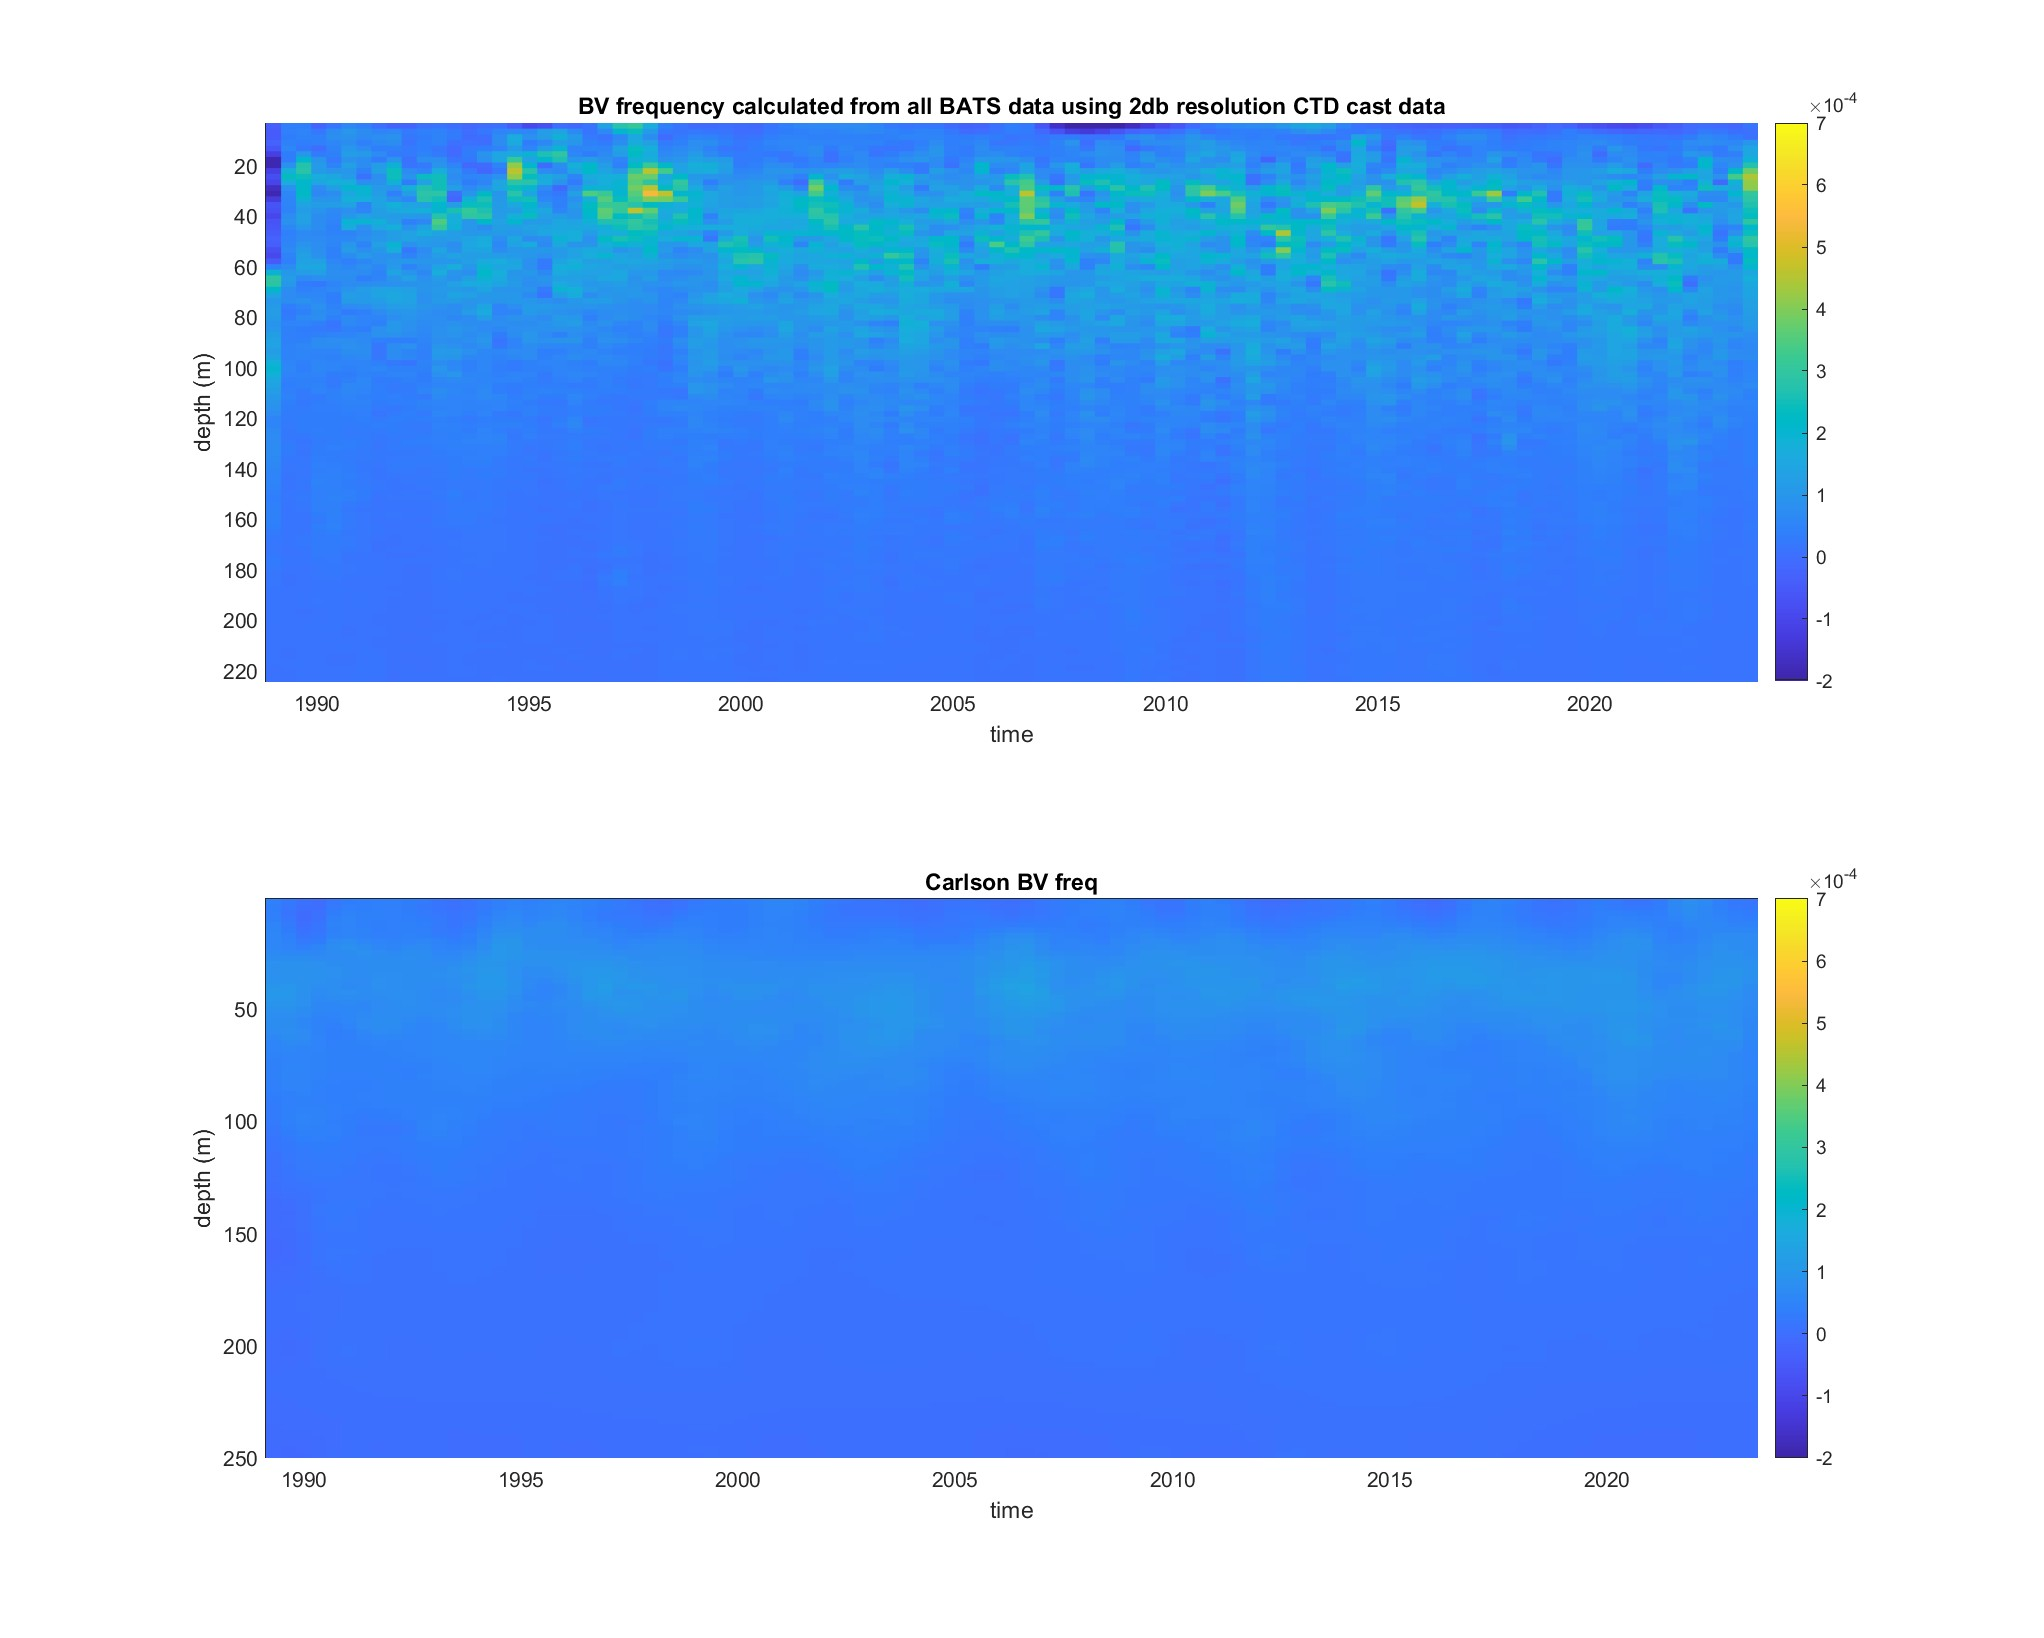
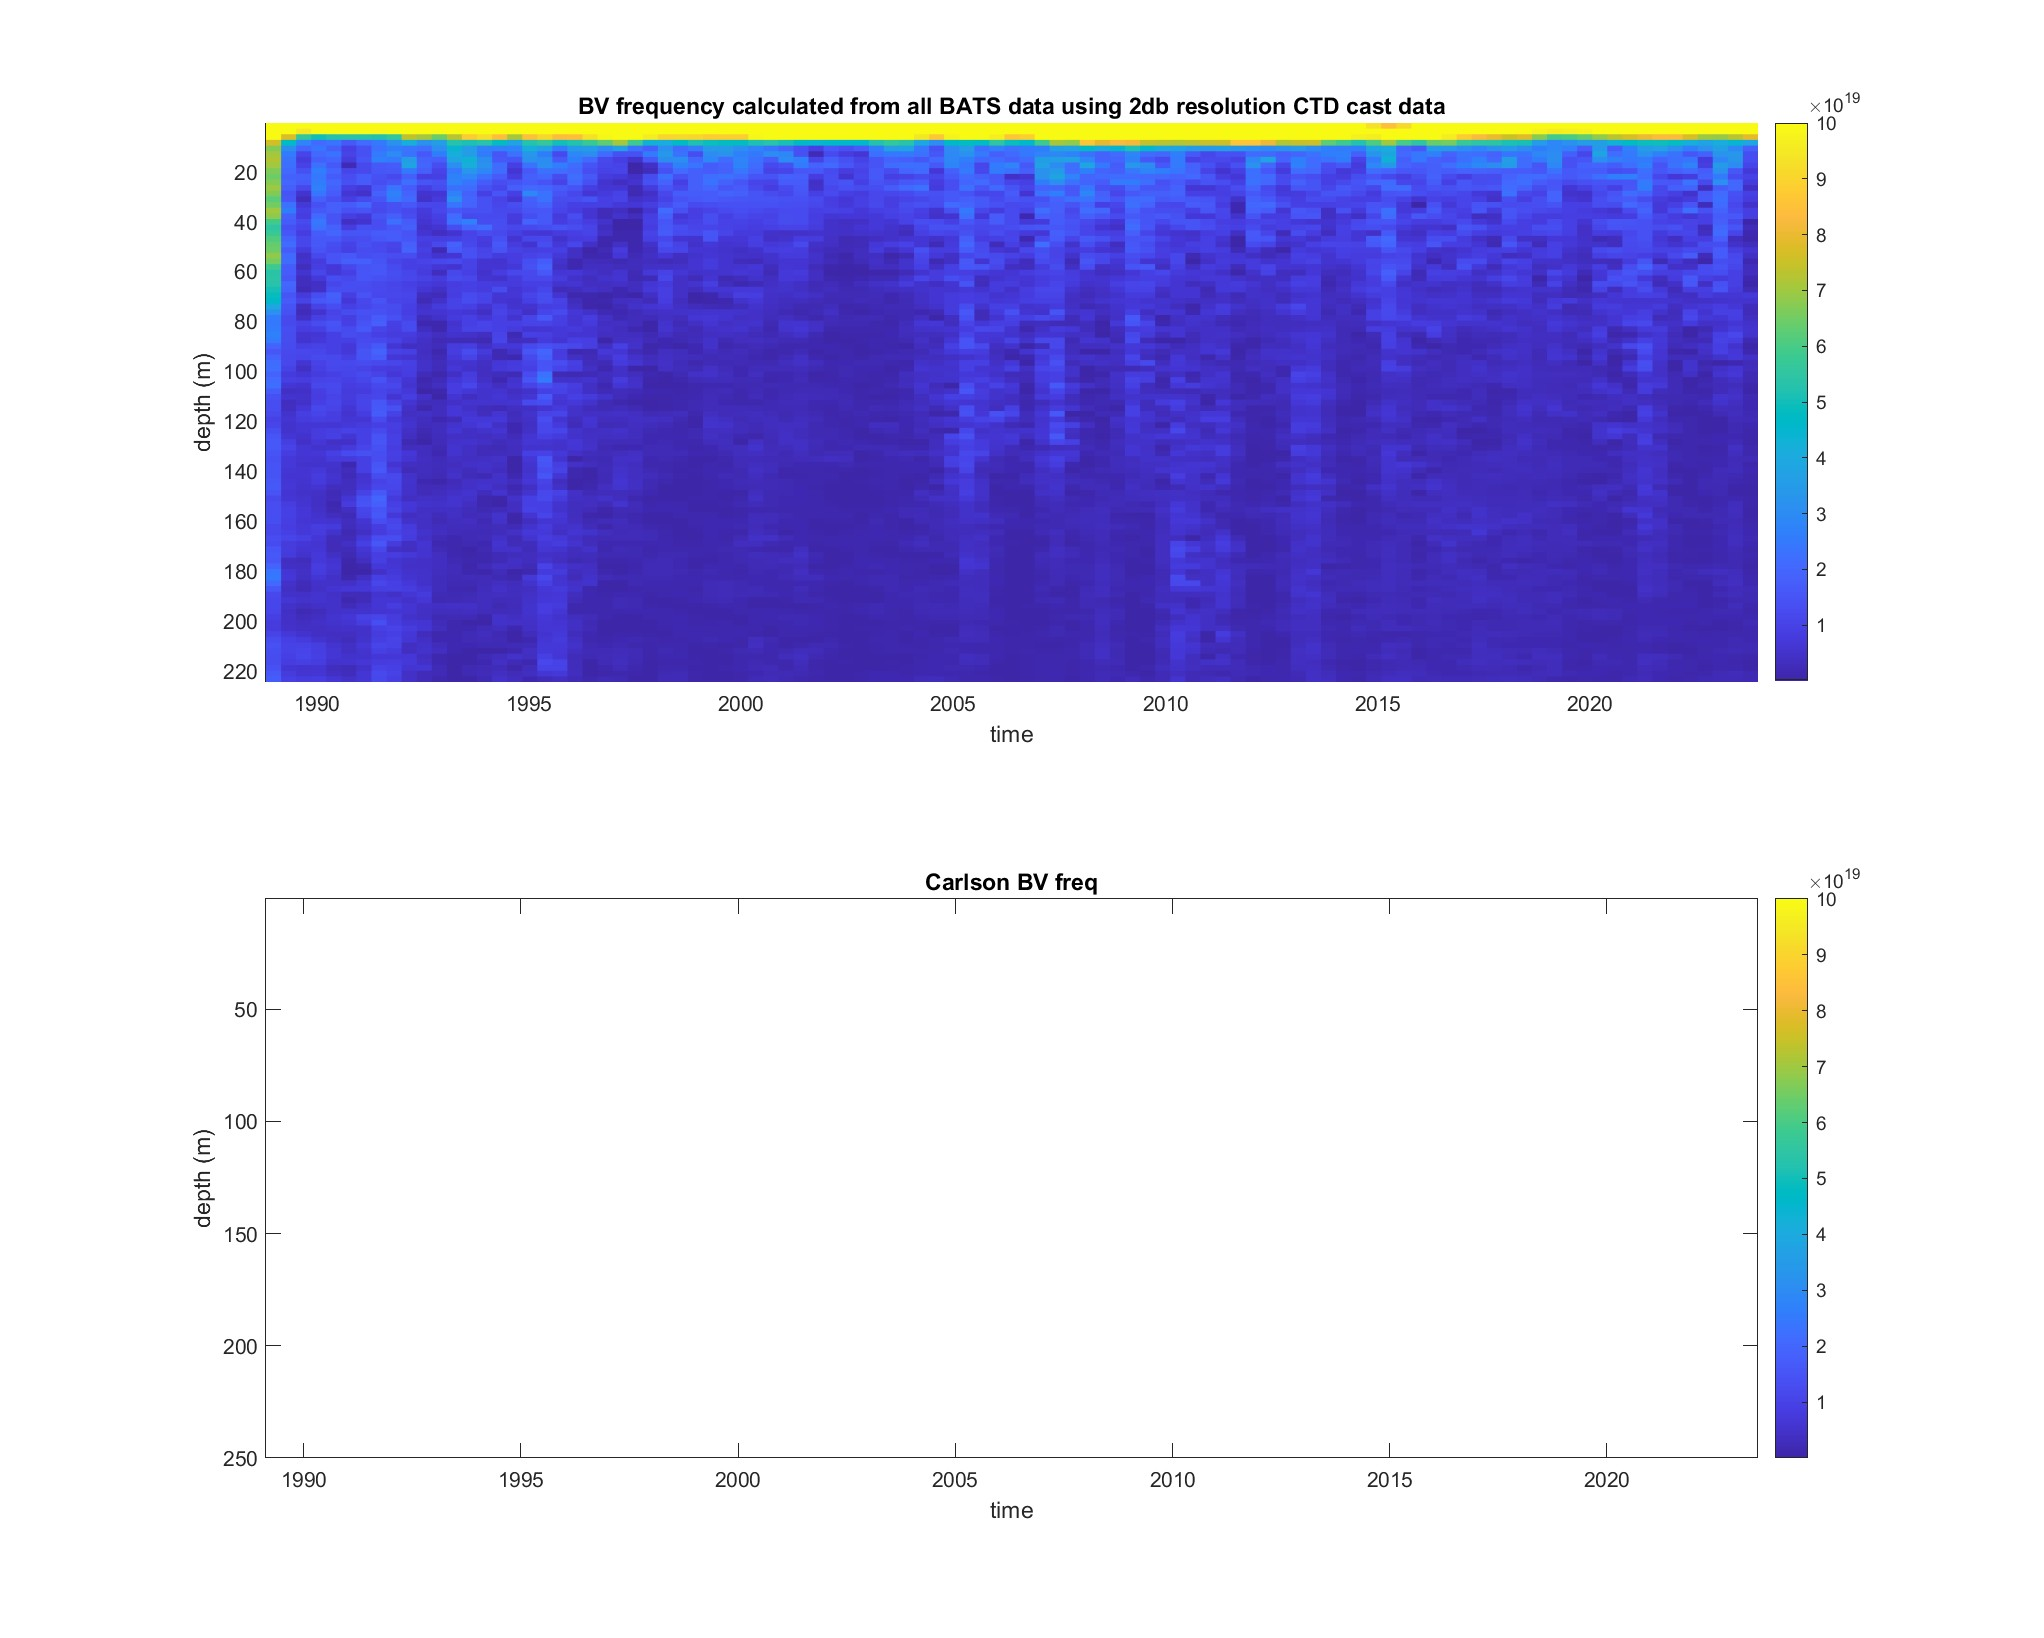
add ability to filter BV data using get_bvfilt.m

diff --git a/getBATSdata_LTT_KLv2.m b/getBATSdata_LTT_KLv2.m
@@ -1,0 +1,133 @@
+%Set up to calculate Ruth's derived variables from all BATS cruises (e.g.,
+%MLD, season, and VZ); starting with BATS cruise #1
+%based on Ruth's prior code : create_biosscope_files_2022_2023.m
+% Original code from Ruth Curry, BIOS / ASU
+% Krista Longnecker; 8 February 2024
+% Krista Longnecker; 21 June 2024
+%Modify existing MATLAB code to get the BV data from all time at BATS;
+%using MATLAB because Ruth made these calculations in MATLAB
+%Krista Longnecker; 27 June 2024
+%Krista Longnecker ; 4 April 2025 (turn off Dropbox syncing while running
+%this : will massively speed up the code)
+clear all 
+close all
+
+%%add options depending on computer, KL is jumping between computers
+if isequal(getenv('COMPUTERNAME'),'ESPRESSO')
+    %% add ./BIOSSCOPE/CTD_BOTTLE/mfiles into matlab path
+    addpath(genpath('C:\Users\klongnecker\Documents\GitHub_espresso\BATSallTime_LTT\mfiles'));    
+    
+    %% update the folder information before getting started
+    rootdir = 'C:\Users\klongnecker\Documents\Dropbox\Current projects\Kuj_BIOSSCOPE\RawData\';
+    %Krista has put the next two folders outside the space accessible by GitHub
+    %These files are too large to put into GitHub
+    workdir = fullfile(rootdir,'RCcalcBATS\data_temporary\');
+    % workdir = fullfile(rootdir,'RCcalcBATS\data_copySmall_testing\');
+    outdir = fullfile(rootdir,'RCcalcBATS\data_holdingZone\');
+elseif isequal(getenv('COMPUTERNAME'),'LONGNECKER-1650')
+    %% add ./BIOSSCOPE/CTD_BOTTLE/mfiles into matlab path    
+    addpath(genpath('C:\Users\klongnecker\Documents\Dropbox\GitHub\BATSallTime_LTT\mfiles'));
+
+    %% update the folder information before getting started
+    rootdir = 'C:\Users\klongnecker\Documents\Dropbox\Current projects\Kuj_BIOSSCOPE\RawData\';
+    %Krista has put the next two folders outside the space accessible by GitHub
+    %These files are too large to put into GitHub
+    workdir = fullfile(rootdir,'RCcalcBATS\data_temporary\');
+    % workdir = fullfile(rootdir,'RCcalcBATS\data_copySmall_testing\'); up to 1992
+    outdir = fullfile(rootdir,'RCcalcBATS\data_holdingZone\');
+end
+
+gitdir = pwd;
+%set this to one if you want to see a plot for each cast (that will clearly
+%be a ton of plots, so this is best used if you to look at a preset number
+%of casts within the full set of casts)
+do_plots = 0;
+   
+NameOfFile = 'BATSdataForBVplots.2025.04.04.mat';
+
+%use the Excel file from July 2024 to set the seasons - do here and then
+%send result (trans_dates) into calculate_BATSderivedVariables_forLTT
+%Use this function to make a MATLAB structure with transition dates
+seasonsFile = fullfile(gitdir,'BATS_seasons_wKLedits.2024.07.05.xlsx');
+%use this function to reformat the dates, set fName in calcDerivedVariables
+trans_dates = reformat_season_dates(seasonsFile) ; 
+
+%now do the calculations
+
+%Ruth set this up for txt files, but the BATS txt files are a pain, use
+%the BATS *mat files
+cd(workdir)
+dirlist = dir('*.mat');
+%delete some names...not the best way to do this, but will work
+s = contains({dirlist.name},'YR');
+ks = find(s==1);
+dirlist(ks) = []; clear s ks
+s = contains({dirlist.name},'bats_ctd.mat');
+ks = find(s==1);
+dirlist(ks) = []; clear s ks
+s = contains({dirlist.name},'bval_ctd.mat');
+ks = find(s==1);
+dirlist(ks) = []; clear s ks
+s = contains({dirlist.name},'working.mat');
+ks = find(s==1);
+dirlist(ks) = []; clear s ks
+
+nfiles = length(dirlist);
+stepOne = table();
+
+% doFiles = 1; %use for testing, smaller number of files
+% doFiles = 3; %use for testing, more files in case you need to test the loop
+doFiles = nfiles; %do  everything
+for ii = 1:doFiles;
+   fname = dirlist(ii).name;      
+   infile = fullfile(workdir,fname);
+   
+   %use modified function from KL, 4/4/2025
+   CTD = calculate_BATSderivedVariables_forLTT(infile,trans_dates,do_plots,outdir,0);
+   %make a table, easier to manipulate; have to write a custom script to
+   %make a table given the complexity of these structures
+   trim = 1; %set this to one to only keep the values that are one per cruise/cast
+   T = convert_RCstructure2table(CTD,trim); %this is a new KL function 6/21/2024
+   stepOne = [stepOne;T];
+   
+   clear idx T trim CTD infile fname
+end
+clear ii nfiles doFiles dirlist do_plots
+
+%Can stop here first....next up will be to concatenate all the CSV files
+%sitting in the outdir.
+%go to the folder with the MAT files, read them in and concatenate into one
+%matrix...will be pretty big
+cd(outdir)
+dirlist = dir('*.mat');
+
+%use the first file to set the stage
+load(dirlist(1).name)
+%Only keeping the upper water column bc that is the focus of this paper.
+%Delete depths more than 220m.
+k = find(TTcast.Depth<225);
+allData = TTcast(k,:);
+clear TTcast
+for a = 2:length(dirlist)
+    load(dirlist(a).name);
+    k = find(TTcast.Depth<225); %only keep upper water column
+    allData = [allData ; TTcast(k,:)];
+    clear TTcast
+end
+clear a dirlist
+
+
+%now have many rows of data, save this (after some housecleaning)
+cd(gitdir)
+
+if 1
+    %export this as a CSV file...that will be better to share then the MATLAB
+    %file; file is big, do not put in gitdir (or setup .gitignore file)
+    writetable(allData,strcat(outdir,'BATS_CTDdata_2db.2025.04.10.csv'))
+end
+
+clear outdir rootdir workdir gitdir stepOne 
+
+save(NameOfFile)
+
+

diff --git a/plot_BV_v2.m b/plot_BV_v2.m
@@ -1,0 +1,142 @@
+%plot up the BV data...down to 200 m only
+%starting in MATLAB bc that is where the data are
+%KL 4 April 2025
+clear all
+close all
+%KL compilation from the BATS 2db CTD casts
+load BATSdataForBVplots.2025.04.04.mat
+
+%Craig's calculation from the synoptic cast
+T = readtable('Brunt-V_is_l__Frequency_Data_2.xlsx');
+
+%KL 4/9/2025
+%following Ruth - change negative values to a small number and then plot as
+%log10
+small = 10^-100;
+k = find(T.N_squared<0);
+T.N_squared(k) = small;
+k = find(allData.bvfrq<0);
+allData.bvfrq(k) = small;
+
+figure
+subplot(211)
+
+x = allData.decy;
+y = allData.Depth; 
+% z = allData.bvfrq;
+z = power(log10(allData.bvfrq),10);
+
+k = find(y==-999);
+y(k) = [];
+x(k) =[];
+z(k)= [];
+
+k = find(z==-999);
+y(k) = [];
+x(k) =[];
+z(k)= [];
+
+    forMax = max(z);
+    useC = [min(z) forMax]; 
+    doPlot(x,y,z,useC)
+
+    xlabel('time')
+    ylabel('depth (m)')
+    title('BV frequency calculated from all BATS data using 2db resolution CTD cast data')
+    h = colorbar()
+
+%% plot up Craig's data
+subplot(212)
+
+x = T.decy;
+y = T.Depth_m_; 
+% z = T.N_squared;
+z = power(log10(T.N_squared),10);
+
+
+k = find(y==-999);
+y(k) = [];
+x(k) =[];
+z(k)= [];
+
+k = find(z==-999);
+y(k) = [];
+x(k) =[];
+z(k)= [];
+
+    doPlot(x,y,z,useC)
+
+    xlabel('time')
+    ylabel('depth (m)')
+    title('Carlson BV freq')
+    h = colorbar()
+
+
+    if 0
+        %saveas(gcf,char(strcat(nDir,filesep,mtabNames(a),'.jpg')),'jpg')
+        %if I don't do the first bit, I don't get vectors for Illustrator
+        set(gcf,'paperpositionmode','auto')
+        set(gcf,'renderer','Painters')
+        print(gcf,'BATS_bv_allYears.svg','-dpdf')   
+    elseif 1 
+        saveas(gcf,'BATS_bvfrq_allYears.jpg')
+    end
+
+
+
+function doPlot(x,y,z,useC)
+    sp = 100;
+    x1=linspace(min(x),max(x),sp);
+    y1=linspace(min(y),max(y),sp);
+    [Xi,Yi]=meshgrid(x1,y1);
+    %Zi=griddata(x,y,z,Xi,Yi,'linear');
+    SN=100;
+%     LX = 2;
+%     LY = 2;
+    % xq(1)=0.5
+    % yq(1)=0.5
+    %function[zq,eq]=divagrid(x,y,z,xq,yq,SN,LX,LY,masking)
+    %using defaults for now
+    %Zi=divagrid(x,y,z,Xi,Yi); %DIVA, replaces griddata, slow, but OK
+    %let divagrid chose the length scales (LX and LY), also what ODV does 
+    Zi=divagrid(x,y,z,Xi,Yi,SN); %DIVA, replaces griddata
+%     Zi=divagrid(x,y,z,Xi,Yi,SN,LX,LY); %DIVA, replaces griddata
+
+    pcolor(x1,y1,Zi);
+    colormap(parula)
+
+    shading flat
+
+    caxis([useC])
+    set(gca,'ydir','reverse')
+%     datetick('x','mmmyy','keepticks')
+
+%     colorbar
+    %hold on
+    %plot(x,y,'.','color',0.5*ones(1,3)) %turn off the dots
+    set(gcf,'position',[-1405 19 1308 1048])
+    
+end
+
+function doContour(x,y,z,useC, useV)
+    x1=linspace(min(x),max(x),50);
+    y1=linspace(min(y),max(y),50);
+    [Xi,Yi]=meshgrid(x1,y1);
+    Zi=griddata(x,y,z,Xi,Yi);
+    if nargin==5
+        [c h]=contour(x1,y1,Zi,useV,'k');
+    elseif nargin ==4
+        [c h]=contour(x1,y1,Zi,'k');
+    elseif nargin==3
+        [c h]=contour(x1,y1,Zi,'k','linewidth',2);
+        ra
+        %pcolor(x1,y1,Zi)
+        %shading flat
+    else       
+        error('Wrong number of arguments')
+    end
+
+    clabel(c,h)
+%     caxis(useC) %otherwise the contour map will reset the colormap
+end
+

diff --git a/mfiles/calculate_BATSderivedVariables_forLTT.m b/mfiles/calculate_BATSderivedVariables_forLTT.m
@@ -22,6 +22,7 @@ function Xout = calculate_BATSderivedVariables_forLTT(infile,trans_dates,do_plot
 % Original script from Ruth Curry BIOS/ASU (2023); Krista Longnecker
 % editing to add more MLD definitions 24 June 2024
 % KL using this to get BV values for LTT paper; 4 April 2025
+%KL added filter to BV data; 10 April 2025
 
 %%  Read file into rectangular array, and store each column as a field in structure CTD
 %KL version, read in the MATLAB file and then convert to match the legacy format
@@ -110,6 +111,7 @@ CTD.Fluor_offset = zeros(size(ZZ));
 CTD.sig_theta = sw_pden(CTD.Salt,CTD.Temp,CTD.Pressure,0) - 1000;
 CTD.AOU = aou(CTD.Salt,CTD.Temp,CTD.O2);
 CTD.bvfrq = ZZ;
+CTD.bvfilt = ZZ; %KL added 4/10/2025
 CTD.Sunrise = ZZ;
 CTD.Sunset = ZZ;
 CTD.Season = ZZ;
@@ -196,6 +198,7 @@ Xout.th = XX;
 Xout.sig0 = XX;
 Xout.rho = XX;
 Xout.bvfrq = XX;
+Xout.bvfilt = XX; %KL added 4/10/2025
 Xout.vertZone = XX;
 clear XX
 
@@ -268,6 +271,10 @@ for ii = 1:ncast
    BVFRQ = sw_bfrq(Xout.sa(:,ii),Xout.te(:,ii),Xout.pr(:,ii),Xout.lat(ii));
    Xout.bvfrq(:,ii) = [NaN; BVFRQ];
    CTD.bvfrq(indx) = Xout.bvfrq(1:nz,ii);   % plug into CTD struct
+
+   %KL 4/10/2025 addition: filter the BV data using Ruth's get_bvfilt.m
+   Xout.bvfilt(:,ii) = get_bvfilt([NaN; BVFRQ],5);
+   CTD.bvfilt(indx) = Xout.bvfilt(1:nz,ii);    
    
    clear itop indx nz BVFRQ
 end %for ii

diff --git a/compare_BV.m b/compare_BV.m
@@ -27,6 +27,12 @@ close all
 
 load workingBV.2025.04.09.mat
 
+small = 10^-100;
+k = find(T.N_squared<0);
+T.N_squared(k) = small;
+k = find(allData.bvfrq<0);
+allData.bvfrq(k) = small;
+
 for a = 1:size(T,1)
     if rem(a,1000)==1 
         fprintf('iteration %d for %d peaks\n',a,size(T,1)) 
@@ -52,14 +58,17 @@ end
 clear a
 
 % plot(T.BV_KL,T.N_squared,'.')
-gscatter(T.BV_KL,T.BV_CC,T.BV_KL_count,[],[],20)
+% gscatter(T.BV_KL, T.BV_CC, T.BV_KL_count,[],[],20)
+plot(T.BV_KL, T.BV_CC,'.')
 hold on
-YL = ylim;
-line(xlim,xlim,'color','k')
-ylim(YL)
+% YL = ylim;
+% line(xlim,xlim,'color','k')
+% ylim(YL)
 xlabel('BV from KL')
 ylabel('BV from Craig')
-title('Color is the number of casts averaged in KL calculations')
+% title('Color is the number of casts averaged in KL calculations')
+set(gca,'yscale','log')
+set(gca,'xscale','log')
 
    % 
    % if ~isempty(ks)

diff --git a/mfiles/get_bvfilt.m b/mfiles/get_bvfilt.m
@@ -1,0 +1,19 @@
+function [ bvfilt ] = get_bvfilt(bvfreq,filtwidth  )
+%  function [ bvfilt ] = get_bvfilt(bvfreq,filtwidth  )
+% Applies a 3rd order butterworth filter to a rectangular array of 
+% buoyancy frequency profiles, and returns the filtered profiles.
+%  filtwidth is the number of points in the filter window
+% code from Ruth (June 2020)
+%in Ruth's 2020 sample code she called this as follows: bvfilt = get_bvfilt(bvfrq,5)
+[b,a] = butter(3,1/filtwidth);
+bvfilt = ones(size(bvfreq)).* NaN;
+
+[~,nprof] = size(bvfreq);
+for ii = 1:nprof
+    indx = find(~isnan(bvfreq(:,ii)));
+    if length(indx) > 10
+        bvfilt(indx,ii) = filtfilt(b,a,bvfreq(indx,ii));
+    end
+end
+end
+
